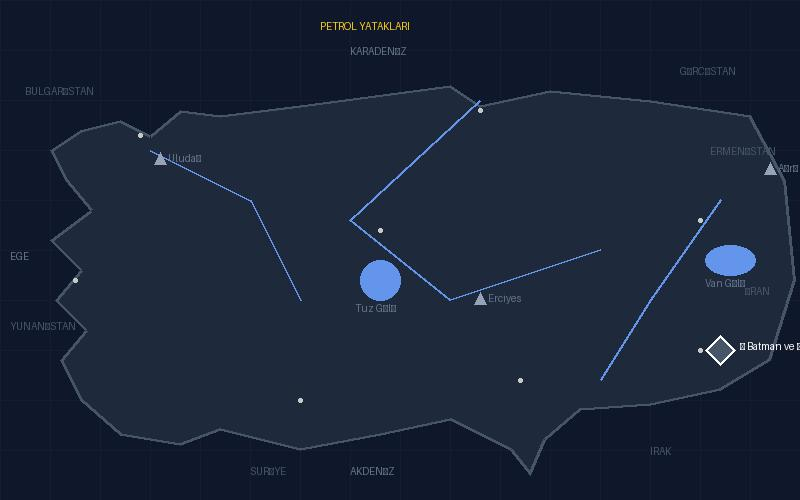
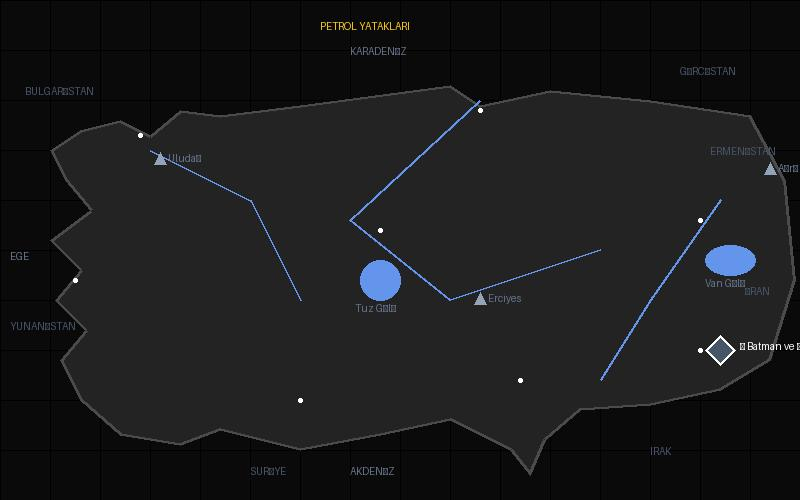
feat: harita tasarimlarina kategori bazli renk paletleri eklendi

diff --git a/download_assets.py b/download_assets.py
@@ -11,18 +11,54 @@ def download_kpss_images():
     # 2. İndirilecek resimlerin listesi
     # Harita oluşturma verileri (Eğer indirme başarısız olursa)
     map_metadata = {
-        "tr_nufus.jpg": {"label": "NÜFUS YOĞUNLUĞU", "marker": (150, 130), "info": "İstanbul-Kocaeli Çevresi", "type": "circle", "color": (56, 189, 248)},
-        "tr_delta.jpg": {"label": "DELTA OVALARI", "marker": (550, 400), "info": "Çukurova Bölgesi", "type": "circle", "color": (34, 197, 94)},
-        "tr_demir.jpg": {"label": "DEMİR MADENİ", "marker": (600, 220), "info": "Sivas-Divriği Çevresi", "type": "square", "color": (249, 115, 22)},
-        "tr_bor.jpg": {"label": "BOR REZERVLERİ", "marker": (180, 200), "info": "Güney Marmara-Eskişehir", "type": "square", "color": (234, 179, 8)},
-        "tr_petrol.jpg": {"label": "PETROL YATAKLARI", "marker": (720, 350), "info": "Batman ve Çevresi", "type": "diamond", "color": (71, 85, 105)},
-        "tr_iklim.jpg": {"label": "KARADENİZ İKLİMİ", "marker": (500, 100), "info": "Kıyı Şeridi Taranmış", "type": "circle", "color": (239, 68, 68)}
+        "tr_nufus.jpg": {
+            "label": "NÜFUS YOĞUNLUĞU", "marker": (150, 130), "info": "İstanbul-Kocaeli Çevresi", 
+            "type": "circle", "color": (56, 189, 248),
+            "bg_color": (15, 23, 42), "land_color": (30, 41, 59) # Modern Koyu Mavi
+        },
+        "tr_delta.jpg": {
+            "label": "DELTA OVALARI", "marker": (550, 400), "info": "Çukurova Bölgesi", 
+            "type": "circle", "color": (34, 197, 94),
+            "bg_color": (10, 20, 15), "land_color": (20, 45, 30) # Doğa Yeşili
+        },
+        "tr_demir.jpg": {
+            "label": "DEMİR MADENİ", "marker": (600, 220), "info": "Sivas-Divriği Çevresi", 
+            "type": "square", "color": (249, 115, 22),
+            "bg_color": (25, 15, 15), "land_color": (55, 35, 30) # Pas/Metal Tonu
+        },
+        "tr_bor.jpg": {
+            "label": "BOR REZERVLERİ", "marker": (180, 200), "info": "Güney Marmara-Eskişehir", 
+            "type": "square", "color": (234, 179, 8),
+            "bg_color": (20, 20, 30), "land_color": (40, 40, 65) # Kristal Moru
+        },
+        "tr_petrol.jpg": {
+            "label": "PETROL YATAKLARI", "marker": (720, 350), "info": "Batman ve Çevresi", 
+            "type": "diamond", "color": (71, 85, 105),
+            "bg_color": (10, 10, 10), "land_color": (35, 35, 35) # Endüstriyel Siyah/Gri
+        },
+        "tr_iklim.jpg": {
+            "label": "KARADENİZ İKLİMİ", "marker": (500, 100), "info": "Kıyı Şeridi Taranmış", 
+            "type": "circle", "color": (239, 68, 68),
+            "bg_color": (15, 25, 35), "land_color": (65, 55, 45) # Toprak Tonları
+        }
     }
 
     def create_fallback_map(name, path):
         """İndirme başarısız olursa manuel harita taslağı oluşturur."""
-        data = map_metadata.get(name, {"label": "COĞRAFYA HARİTASI", "marker": (400, 300), "info": ""})
-        img = Image.new('RGB', (800, 500), color=(15, 23, 42)) 
+        data = map_metadata.get(name, {
+            "label": "COĞRAFYA HARİTASI", 
+            "marker": (400, 300), 
+            "info": "",
+            "bg_color": (15, 23, 42),
+            "land_color": (30, 41, 59)
+        })
+        
+        bg_color = data.get("bg_color", (15, 23, 42))
+        land_color = data.get("land_color", (30, 41, 59))
+        grid_color = tuple(max(0, c - 10) for c in bg_color)
+        outline_color = tuple(min(255, c + 40) for c in land_color)
+
+        img = Image.new('RGB', (800, 500), color=bg_color) 
         draw = ImageDraw.Draw(img)
 
         # Fontları Yükle (Netlik için kritik)
@@ -63,8 +99,8 @@ def download_kpss_images():
         }
 
         # 1. Koordinat Izgarası (Grid)
-        for x in range(0, 800, 50): draw.line([(x, 0), (x, 500)], fill=(22, 30, 46), width=1)
-        for y in range(0, 500, 50): draw.line([(0, y), (800, y)], fill=(22, 30, 46), width=1)
+        for x in range(0, 800, 50): draw.line([(x, 0), (x, 500)], fill=grid_color, width=1)
+        for y in range(0, 500, 50): draw.line([(0, y), (800, y)], fill=grid_color, width=1)
 
         # 2. Geliştirilmiş Türkiye Sınırları (Detaylandırıldı)
         turkey_outline = [
@@ -77,15 +113,15 @@ def download_kpss_images():
         ]
         
         # Kara parçasını doldur ve sınırı çiz
-        draw.polygon(turkey_outline, fill=(30, 41, 59), outline=(71, 85, 105), width=3)
+        draw.polygon(turkey_outline, fill=land_color, outline=outline_color, width=3)
 
         # 2.5 Nehirleri Çiz
         for river in rivers:
-            draw.line(river, fill=(100, 149, 237), width=2)
+            draw.line(river, fill=(100, 149, 237, 180), width=2)
 
         # 2.6 Şehirleri Ekle
         for city, pos in ref_cities.items():
-            draw.ellipse([pos[0]-2, pos[1]-2, pos[0]+2, pos[1]+2], fill=(200, 200, 200))
+            draw.ellipse([pos[0]-2, pos[1]-2, pos[0]+2, pos[1]+2], fill=(255, 255, 255, 150))
 
         # 2.7 Gölleri Çiz ve İsimlendir
         for name, (lx, ly, rx, ry) in lakes.items():
